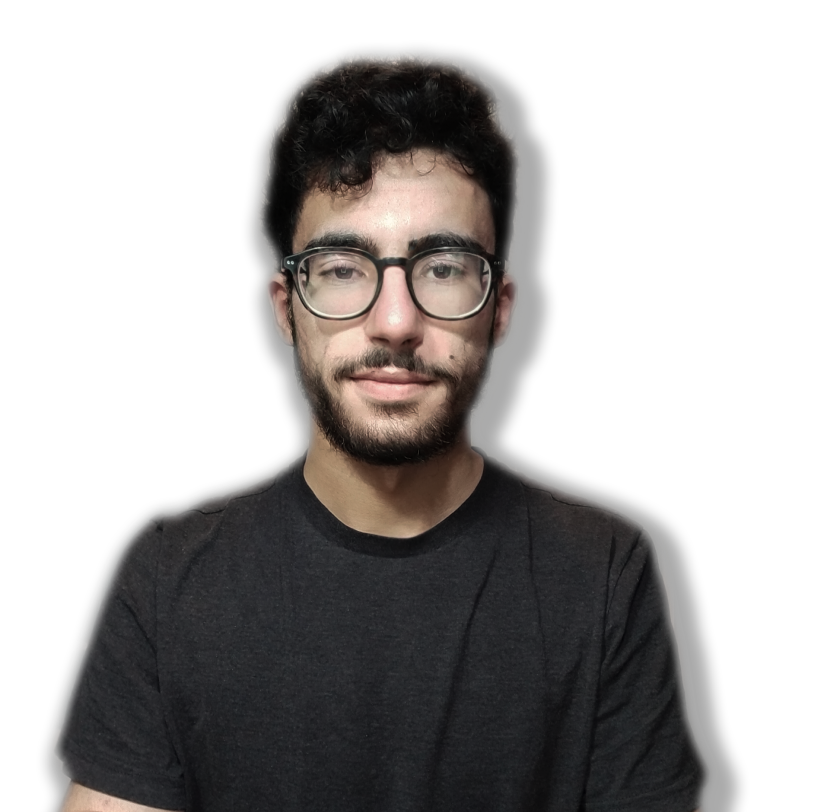
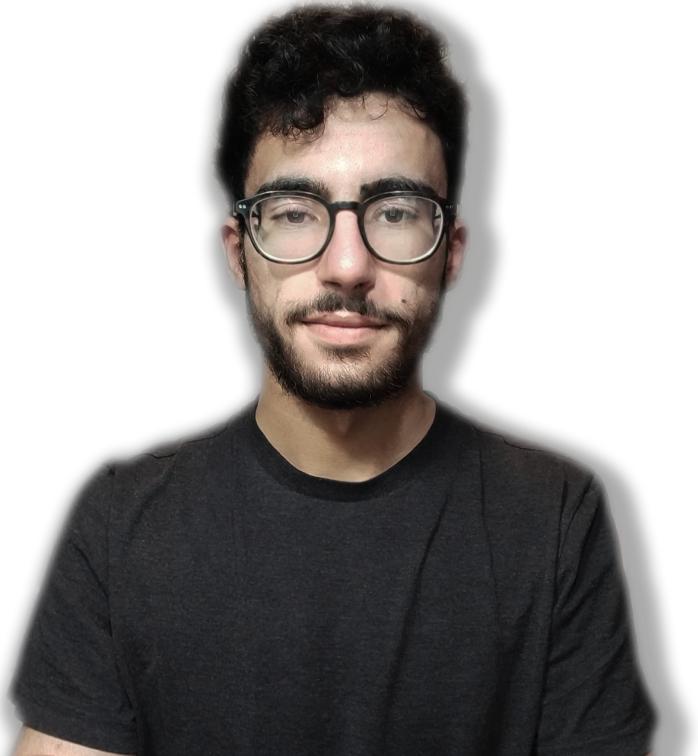
Finito responsive

diff --git a/assets/css/style.min.css b/assets/css/style.min.css
@@ -1,1 +1,1 @@
-@font-face{font-family:"Titillium-Web";src:url("../fonts/TitilliumWeb-Regular.woff") format("woff");font-style:normal;font-weight:400}@font-face{font-family:"Titillium-Web";src:url("../fonts/TitilliumWeb-SemiBold.woff") format("woff");font-style:normal;font-weight:600}@font-face{font-family:"Titillium-Web";src:url("../fonts/TitilliumWeb-Bold.woff") format("woff");font-style:normal;font-weight:700}@font-face{font-family:"Titillium-Web";src:url("../fonts/TitilliumWeb-Black.woff") format("woff");font-style:normal;font-weight:900}.section-header,main section h1{text-transform:uppercase;font-weight:900;font-size:35px;line-height:35px}.button,.blue-button,.orange-button{border-radius:10px;color:white;border:none;font-weight:700;padding:5px 15px;display:block;font-size:25px}.blue-button{background-color:#020659}.orange-button{border:1px solid white !important;background-color:#F25C05}@media screen and (min-width: 796px){.button,.blue-button,.orange-button{font-size:20px}.button br,.blue-button br,.orange-button br{display:none}}*{margin:0;padding:0;box-sizing:border-box}.only-desktop{display:none}.container{width:100%}body{font-family:"Titillium-Web", sans-serif;color:#020659}.page-header{height:80px;background-color:#020659;padding:0 25px;display:flex;align-items:center;justify-content:center}.page-header nav{width:100%;display:flex;justify-content:space-between}.page-header nav .logo-social{display:flex;align-items:center}.page-header nav img{height:24px;margin-right:10px}.page-header nav .logo{margin-right:22px;display:flex;align-items:center}.page-header nav .social{display:flex;align-items:center}.page-header nav .menu-icon{height:28px;margin-right:0}main section{padding:10px 25px}main .hero-section{padding:10px 25px 2px 25px;height:400px;background-color:#F25C05;z-index:-2;position:relative}main .hero-section .container{display:flex;flex-direction:column;flex-wrap:wrap;align-items:center;justify-content:space-between;height:100%}main .hero-section h1{font-size:40px;line-height:40px}main .hero-section .mobile-right-align{display:flex;flex-direction:column;align-self:flex-end;width:226px;color:white}main .hero-section .mobile-right-align h2{font-size:25px;line-height:25px;font-weight:700;margin-bottom:4px}main .hero-section .mobile-right-align p{font-size:18px;line-height:18px;font-weight:400}main .hero-section .hero-buttons button{margin:5px auto 0px auto;line-height:20px;width:180px}main .hero-section .blue-button{font-size:20px !important;text-transform:uppercase}main .hero-section .background-photo{padding:0;border:1px solid white;position:absolute;left:0;bottom:0;width:50%;z-index:-1}main .hero-section .background-photo img{height:100%;width:100%}main .work-preview{padding-top:20px !important}main .work-preview .container{display:flex;flex-direction:column;align-items:center}main .work-preview .companies{display:flex;flex-direction:column;align-items:center}main .work-preview .companies img{width:280px}main .work-preview h1,main .work-preview img{margin-bottom:20px}main .work-preview button{font-size:20px !important;text-transform:uppercase;width:280px;font-weight:600}main .skills{background-color:#020659;color:white}main .skills h1{text-align:center;margin-bottom:30px}main .skills .skills-cards{display:flex;flex-wrap:wrap;justify-content:space-between}main .skills .skills-cards .card{display:flex;flex-direction:column;align-items:center;justify-content:space-between;width:calc(50% - 25px);height:140px;margin-top:25px;margin-bottom:20px}main .skills .skills-cards .card h2{text-transform:uppercase;text-align:center;font-size:20px;line-height:20px;margin-bottom:5px}main .skills .skills-cards .card img{height:60%}main .skills .skills-cards .card .score-bar,main .skills .skills-cards .card .score-bar-level{height:8px;border:none;border-radius:4px}main .skills .skills-cards .card .score-bar{width:100%;background-color:white}main .skills .skills-cards .html .score-bar-level{width:75%;background-color:#E44D26}main .skills .skills-cards .css .score-bar-level{width:70%;background-color:#2965F1}main .skills .skills-cards .coding .score-bar-level{width:30%;background-color:#57F2AA}main .skills .skills-cards .design .score-bar-level{width:50%;background-color:#007AA3}main .skills .skills-cards .photoshop .score-bar-level{width:60%;background-color:#03A9F4}main .skills .skills-cards .excel .score-bar-level{width:70%;background-color:#1E7145}main .skills .skills-cards .problem-solving .score-bar-level{width:90%;background-color:#FF4F77}main .skills .skills-cards .creativity .score-bar-level{width:85%;background-color:#D64A34}main .skills .skills-cards .team-work .score-bar-level{width:80%;background-color:#FDD559}main .skills .skills-cards .critical-thinking .score-bar-level{width:80%;background-color:#BC7C63}main .contact-me{background-color:#F25C05}main .contact-me .container{display:flex;flex-direction:column;align-items:center}main .contact-me h1{color:white;text-align:center;margin-bottom:16px}main .contact-me .send-email{padding:12px 14px;background-color:#020659;width:100%;display:flex;flex-direction:column;align-items:flex-start;border-radius:20px;margin-bottom:16px}main .contact-me .send-email input,main .contact-me .send-email textarea{padding:3px;border-radius:10px;color:white;width:100%;background-color:rgba(0,0,0,0);border:1px solid white;margin-bottom:10px}main .contact-me .send-email input::placeholder,main .contact-me .send-email textarea::placeholder,main .contact-me .send-email input[type="submit"]{color:white;font-size:24px;font-weight:400}main .contact-me .send-email input{height:30px}main .contact-me .send-email textarea{height:110px;resize:none}main .contact-me .send-email input[type="submit"]{font-size:22px;font-weight:600;width:180px;height:35px;align-self:center}main .contact-me button{text-transform:uppercase}@media screen and (min-width: 481px){main .hero-section{align-items:center;text-align:center}main .hero-section h1{margin-top:30px}main .hero-section h1 br{display:none}main .hero-section .mobile-right-align{width:50%;align-self:center}main .hero-section .mobile-right-align h2{font-size:25px;line-height:25px;font-weight:700;margin-bottom:4px}main .hero-section .mobile-right-align p{font-size:18px;line-height:18px;font-weight:400}main .work-preview .companies{flex-direction:row;flex-wrap:wrap;justify-content:center}main .work-preview .companies img{width:calc(50% - 128px / 2);margin-right:128px}main .skills .skills-cards{max-width:500px;margin:auto}main .skills .skills-cards .card{width:calc(100% / 3 - 25px * 2 / 3)}main .skills .soft-skills{width:calc(100% / 3 * 2);max-width:333.33333px}main .skills .soft-skills .card{width:calc(50% - 25px)}main .skills .contact-me button br{display:none}}@media screen and (min-width: 481px) and (max-width: 795px){main .work-preview img:nth-of-type(2n),main .work-preview img:last-of-type{margin-right:0}}@media screen and (min-width: 796px){.only-mobile{display:none !important}.only-desktop{display:initial}.container{margin:auto;max-width:1000px}.page-header{position:relative;height:95px}.page-header .logo{display:flex;flex-direction:column;align-items:center;position:absolute;left:50%;top:18px;transform:translateX(-50%)}.page-header .logo img{display:block}.page-header .logo-acronym{text-align:center;font-weight:400;font-size:15px;color:white}.page-header .page-top-nav ul{width:720px;margin:auto;display:flex;justify-content:space-between;list-style-type:none}.page-header .page-top-nav ul li{font-size:22px;font-weight:600;width:120px;text-align:center}.page-header .page-top-nav ul li.active a{color:#F25C05}.page-header .page-top-nav ul .home-link{display:flex;align-items:center;justify-content:center;height:30px;background-color:#020659;border-radius:5px;border:1px solid #F25C05;position:absolute;bottom:-15px;left:50%;transform:translateX(-50%)}.page-header .page-top-nav ul .home-link a{text-transform:uppercase}.page-header .page-top-nav ul a{color:white;text-decoration:none}main section{padding:30px 10px}main section h1{font-size:50px}main .hero-section{padding-bottom:20px}main .hero-section .hero-buttons{display:flex}main .hero-section .hero-buttons button{width:initial}main .hero-section .hero-buttons button:first-of-type{margin-right:70px}main .hero-section .social{width:180px;height:44px;display:flex;justify-content:space-between}main .hero-section .social img{height:100%}main .work-preview .companies{margin-bottom:64px;margin-top:54px}main .work-preview .companies img{width:calc(100% / 3 - 128px * 2 / 3);margin-right:128px}main .work-preview .companies img:nth-of-type(3n),main .work-preview .companies img:last-of-type{margin-right:0}main .skills{height:600px;display:flex;align-items:center}main .skills .container{display:flex;justify-content:space-between;align-items:center}}.page-footer{background-color:black;color:white;padding:5px 10px}.page-footer .orange-frst-letter p{display:inline-block}.page-footer .orange-frst-letter p::first-letter{color:#F25C05}
+@font-face{font-family:"Titillium-Web";src:url("../fonts/TitilliumWeb-Regular.woff") format("woff");font-style:normal;font-weight:400}@font-face{font-family:"Titillium-Web";src:url("../fonts/TitilliumWeb-SemiBold.woff") format("woff");font-style:normal;font-weight:600}@font-face{font-family:"Titillium-Web";src:url("../fonts/TitilliumWeb-Bold.woff") format("woff");font-style:normal;font-weight:700}@font-face{font-family:"Titillium-Web";src:url("../fonts/TitilliumWeb-Black.woff") format("woff");font-style:normal;font-weight:900}.section-header,main section h1{text-transform:uppercase;font-weight:900;font-size:35px;line-height:35px}.button,.blue-button,.orange-button{border-radius:10px;color:white;border:none;font-weight:700;padding:5px 15px;display:block;font-size:25px}.blue-button{background-color:#020659}.orange-button{border:1px solid white !important;background-color:#F25C05}@media screen and (min-width: 796px){.button,.blue-button,.orange-button{font-size:20px}.button br,.blue-button br,.orange-button br{display:none}}*{margin:0;padding:0;box-sizing:border-box}.only-desktop{display:none}.container{width:100%}body{font-family:"Titillium-Web", sans-serif;color:#020659}.page-header{height:80px;background-color:#020659;padding:0 25px;display:flex;align-items:center;justify-content:center}.page-header nav{width:100%;display:flex;justify-content:space-between}.page-header nav .logo-social{display:flex;align-items:center}.page-header nav img{height:24px;margin-right:10px}.page-header nav .logo{margin-right:22px;display:flex;align-items:center}.page-header nav .social{display:flex;align-items:center}.page-header nav .menu-icon{height:28px;margin-right:0}main section{padding:10px 25px}main .hero-section{padding:10px 25px 2px 25px;height:400px;background-color:#F25C05;z-index:-2;position:relative}main .hero-section .container{display:flex;flex-direction:column;flex-wrap:wrap;align-items:center;justify-content:space-between;height:100%}main .hero-section h1{font-size:40px;line-height:40px}main .hero-section .mobile-right-align{display:flex;flex-direction:column;align-self:flex-end;width:226px;color:white}main .hero-section .mobile-right-align h2{font-size:25px;line-height:25px;font-weight:700;margin-bottom:4px}main .hero-section .mobile-right-align p{font-size:18px;line-height:18px;font-weight:400}main .hero-section .hero-buttons button{margin:5px auto 0px auto;line-height:20px;width:180px}main .hero-section .blue-button{font-size:20px !important;text-transform:uppercase}main .hero-section .background-photo{position:absolute;left:0;bottom:0;height:calc(100% - 110px);z-index:-1}main .hero-section .background-photo img{display:block;height:100%}main .work-preview{padding-top:20px !important}main .work-preview .container{display:flex;flex-direction:column;align-items:center}main .work-preview .companies{display:flex;flex-direction:column;align-items:center}main .work-preview .companies img{width:280px}main .work-preview h1,main .work-preview img{margin-bottom:20px}main .work-preview button{font-size:20px !important;text-transform:uppercase;width:280px;font-weight:600}main .skills{background-color:#020659;color:white}main .skills h1{text-align:center;margin-bottom:30px}main .skills .skills-cards{display:flex;flex-wrap:wrap;justify-content:space-between}main .skills .skills-cards .card{display:flex;flex-direction:column;align-items:center;justify-content:space-between;width:calc(50% - 25px);height:140px;margin-top:25px;margin-bottom:20px}main .skills .skills-cards .card h2{text-transform:uppercase;text-align:center;font-size:20px;line-height:20px;margin-bottom:5px}main .skills .skills-cards .card img{height:60%}main .skills .skills-cards .card .score-bar,main .skills .skills-cards .card .score-bar-level{height:8px;border:none;border-radius:4px}main .skills .skills-cards .card .score-bar{width:100%;background-color:white}main .skills .skills-cards .html .score-bar-level{width:75%;background-color:#E44D26}main .skills .skills-cards .css .score-bar-level{width:70%;background-color:#2965F1}main .skills .skills-cards .coding .score-bar-level{width:30%;background-color:#57F2AA}main .skills .skills-cards .design .score-bar-level{width:50%;background-color:#007AA3}main .skills .skills-cards .photoshop .score-bar-level{width:60%;background-color:#03A9F4}main .skills .skills-cards .excel .score-bar-level{width:70%;background-color:#1E7145}main .skills .skills-cards .problem-solving .score-bar-level{width:90%;background-color:#FF4F77}main .skills .skills-cards .creativity .score-bar-level{width:85%;background-color:#D64A34}main .skills .skills-cards .team-work .score-bar-level{width:80%;background-color:#FDD559}main .skills .skills-cards .critical-thinking .score-bar-level{width:80%;background-color:#BC7C63}main .contact-me{background-color:#F25C05}main .contact-me .container{display:flex;flex-direction:column;align-items:center}main .contact-me h1{color:white;text-align:center;margin-bottom:16px}main .contact-me .send-email{padding:12px 14px;background-color:#020659;width:100%;display:flex;flex-direction:column;align-items:flex-start;border-radius:20px;margin-bottom:16px}main .contact-me .send-email input,main .contact-me .send-email textarea{padding:3px;border-radius:10px;color:white;width:100%;background-color:rgba(0,0,0,0);border:1px solid white;margin-bottom:10px}main .contact-me .send-email input::placeholder,main .contact-me .send-email textarea::placeholder,main .contact-me .send-email input[type="submit"]{color:white;font-size:24px;font-weight:400}main .contact-me .send-email input{height:30px}main .contact-me .send-email textarea{height:110px;resize:none}main .contact-me .send-email input[type="submit"]{font-size:22px;font-weight:600;width:180px;height:35px;align-self:center}main .contact-me button{text-transform:uppercase}@media screen and (min-width: 481px){main .hero-section{align-items:center;text-align:center}main .hero-section .container{position:relative}main .hero-section h1{margin-top:30px}main .hero-section .mobile-right-align{width:50%;align-self:center}main .hero-section .mobile-right-align h2{font-size:25px;line-height:25px;font-weight:700;margin-bottom:4px}main .hero-section .mobile-right-align p{font-size:18px;line-height:18px;font-weight:400}main .work-preview .companies{flex-direction:row;flex-wrap:wrap;justify-content:center}main .work-preview .companies img{width:calc(50% - 128px / 2);margin-right:128px}main .skills .skills-cards{max-width:500px;margin:auto}main .skills .skills-cards .card{width:calc(100% / 3 - 25px * 2 / 3)}main .skills .soft-skills{width:calc(100% / 3 * 2);max-width:333.33333px}main .skills .soft-skills .card{width:calc(50% - 25px)}main .skills .contact-me button br{display:none}}@media screen and (min-width: 481px) and (max-width: 795px){main .work-preview img:nth-of-type(2n),main .work-preview img:last-of-type{margin-right:0}}@media screen and (min-width: 671px){main .hero-section .background-photo{bottom:-2px;left:-68px;height:100%}}@media screen and (min-width: 796px){.only-mobile{display:none !important}.only-desktop{display:initial}.container{margin:auto;max-width:1000px}.page-header{position:relative;height:95px}.page-header .logo{display:flex;flex-direction:column;align-items:center;position:absolute;left:50%;top:18px;transform:translateX(-50%)}.page-header .logo img{display:block}.page-header .logo-acronym{text-align:center;font-weight:400;font-size:15px;color:white}.page-header .page-top-nav ul{width:720px;margin:auto;display:flex;justify-content:space-between;list-style-type:none}.page-header .page-top-nav ul li{font-size:22px;font-weight:600;width:120px;text-align:center}.page-header .page-top-nav ul li.active a{color:#F25C05}.page-header .page-top-nav ul .home-link{display:flex;align-items:center;justify-content:center;height:30px;background-color:#020659;border-radius:5px;border:1px solid #F25C05;position:absolute;bottom:-15px;left:50%;transform:translateX(-50%)}.page-header .page-top-nav ul .home-link a{text-transform:uppercase}.page-header .page-top-nav ul a{color:white;text-decoration:none}main section{padding:30px 10px}main section h1{font-size:50px}main .hero-section{padding-bottom:20px}main .hero-section h1 br{display:none}main .hero-section .background-photo{bottom:-20px}main .hero-section .hero-buttons{display:flex}main .hero-section .hero-buttons button{width:initial}main .hero-section .hero-buttons button:first-of-type{margin-right:70px}main .hero-section .social{width:180px;height:44px;display:flex;justify-content:space-between}main .hero-section .social img{height:100%}main .work-preview .companies{margin-bottom:64px;margin-top:54px}main .work-preview .companies img{width:calc(100% / 3 - 128px * 2 / 3);margin-right:128px}main .work-preview .companies img:nth-of-type(3n),main .work-preview .companies img:last-of-type{margin-right:0}main .skills{height:600px;display:flex;align-items:center}main .skills .container{display:flex;justify-content:space-between;align-items:center}}.page-footer{background-color:black;color:white;padding:5px 10px}.page-footer .orange-frst-letter p{display:inline-block}.page-footer .orange-frst-letter p::first-letter{color:#F25C05}

diff --git a/pages/mobile-menu/index.html b/pages/mobile-menu/index.html
@@ -1,0 +1,37 @@
+<!DOCTYPE html>
+<html lang="en" dir="ltr">
+  <head>
+    <meta charset="utf-8">
+    <link rel="stylesheet" href="mobile-style.min.css">
+    <link rel="stylesheet" href="../../assets/css/style.min.css">
+    <meta name="viewport"
+      content="width=device-width, initial-scale=1.0, maximum-scale=1.0, user-scalable=0">
+    <title>CHDCTC Menu Page</title>
+  </head>
+  <body>
+    <header class="page-header">
+
+        <nav class="page-top-nav">
+
+          <div class="logo-social">
+            <div class="logo">
+              <img src="../../assets/img/logo.svg" alt="CHDCTC logo">ù
+              <img src="../../assets/img/mobile-menu/logo-extention.svg" alt="CHDCTC logo">
+            </div>
+          </div>
+          <a href="pages/mobile-menu.html"><img class="only-mobile menu-icon" src="../../assets/img/mobile-menu/menu-icon-orange.svg" alt="menu icon CHDCTC"></a>
+        </nav>
+
+    </header>
+
+    <main>
+      <ul>
+        <li><a href="#">Home</a></li>
+        <li><a href="#">Lavoro</a></li>
+        <li><a href="#">Home</a></li>
+        <li><a href="#">Blog</a></li>
+        <li><a href="#">contatti</a></li>
+      </ul>
+    </main>
+  </body>
+</html>

diff --git a/assets/scss/_media-tablet.scss b/assets/scss/_media-tablet.scss
@@ -7,14 +7,22 @@
       align-items: center;
       text-align: center;
 
+      .container {
+        position: relative;
+      }
+
       h1 {
         margin-top: 30px;
 
-        br {
-          display: none;
-        }
+
 
       }
+
+      // .background-photo{
+      //   bottom: -2px;
+      //   left: -68px;
+      //   height: 100%;
+      // }
 
       .mobile-right-align {
         width: 50%;
@@ -86,5 +94,19 @@
         }
       }
     }
+
+}
+
+@media screen and (min-width: 671px) {
+  main {
+    .hero-section {
+
+      .background-photo{
+        bottom: -2px;
+        left: -68px;
+        height: 100%;
+      }
+    }
+}
 
 }

diff --git a/index.html b/index.html
@@ -33,7 +33,8 @@
                 <img src="assets/img/social-icons/github.png" alt="github logo">
               </div>
             </div>
-            <img class="only-mobile menu-icon" src="assets/img/mobile-menu/menu-icon-white.svg" alt="menu icon CHDCTC">
+            <a href="pages/mobile-menu/index.html"><img class="only-mobile menu-icon" src="assets/img/mobile-menu/menu-icon-white.svg" alt="menu icon CHDCTC"></a>
+
           </nav>
 
       </header>

diff --git a/assets/scss/style.scss b/assets/scss/style.scss
@@ -53,6 +53,7 @@ main {
     }
 
     h1 {
+
       font-size: 40px ;
       line-height: 40px ;
     }
@@ -99,16 +100,14 @@ main {
 
 
     .background-photo{
-      padding: 0;
-      border: 1px solid white;
       position: absolute;
       left: 0;
       bottom: 0;
-      width: 50%;
+      height: calc(100% - 110px);
       z-index: -1;
       img {
+        display: block;
         height: 100%;
-        width: 100%;
       }
     }
   }

diff --git a/pages/mobile-menu/mobile-style.scss b/pages/mobile-menu/mobile-style.scss
@@ -1,0 +1,23 @@
+////compileCompressed: $1.min.css
+
+body{
+  height: 100vh;
+  width: 100vw;
+  font-weight: 600px;
+}
+
+
+ul {
+  border: 1px solid red;
+  display: flex;
+  flex-direction: column;
+  height: calc(100vh);
+  width: 100%;
+  align-items: center;
+  list-style-type: none;
+  justify-content: center;
+
+  a {
+
+  }
+}

diff --git a/assets/scss/_media-desktop.scss b/assets/scss/_media-desktop.scss
@@ -99,6 +99,16 @@
     }
 
     .hero-section {
+      h1{
+        br {
+          display: none;
+        }
+
+      }
+
+      .background-photo {
+        bottom: -20px;
+      }
       padding-bottom: 20px;
       .hero-buttons {
         display: flex;
@@ -150,6 +160,6 @@
 
       }
     }
-    
+
   }
 }

diff --git a/pages/mobile-menu/mobile-style.min.css b/pages/mobile-menu/mobile-style.min.css
@@ -1,0 +1,1 @@
+body{height:100vh;width:100vw;font-weight:600px}ul{border:1px solid red;display:flex;flex-direction:column;height:calc(100vh);width:100%;align-items:center;list-style-type:none;justify-content:center}
